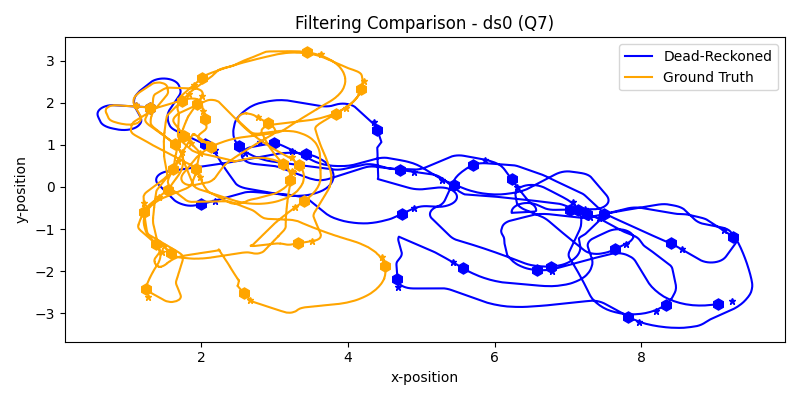
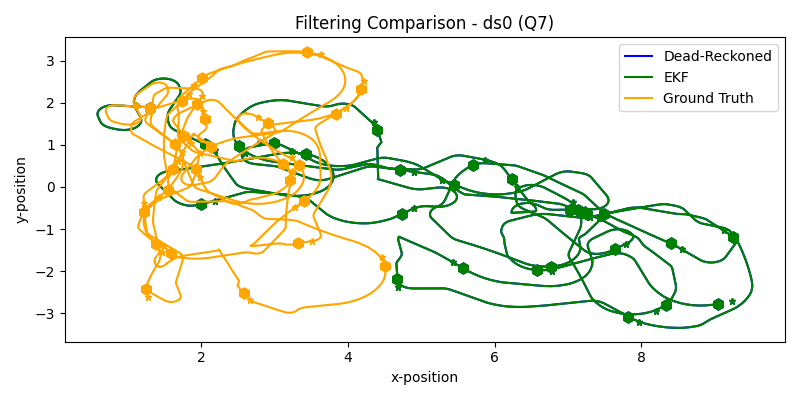
EKF alg outline

diff --git a/filters.py b/filters.py
@@ -41,7 +41,7 @@ def dead_reckon(u_traj, motion_model, x0, t0, tf, h, Q=None, tspan=None, tsync='
         else:
             h = t - prev_time  
         sim[i] = x
-        x = motion_model(x, u, t, h, Q=Q)
+        x = motion_model(x, u, t, h)
         prev_time = t
         prev_control = u
     return tspan, sim
@@ -78,25 +78,54 @@ def extended_kalman(u_traj,
     # Initialization
     if tspan is None: tspan = np.arange(start=t0, stop=tf, step=h)
     assert tspan.shape[0] == u_traj.shape[0]
-    x = x0
     sim = np.zeros((len(tspan), len(x0)))
-    prev_time = tspan[0] - h
+    prev_u_time = tspan[0] - h
     prev_control = u_traj
 
-    for (i, t), u in zip(enumerate(tspan), u_traj):
+    # Jacobian functions
+    def G(mut, ut, h):
+        return np.array([[1.0, 0.0, -ut[0]*h*np.sin(mut[2])],
+                         [0.0, 1.0,  ut[0]*h*np.cos(mut[2])],
+                         [0.0, 0.0,                   ut[1]]])
+    def H(mut, ut, h):
+        # xdiff = xt - 
+        return np.array([[]])
+
+    mut = x0
+    sim[0] = x0
+    sigt = np.diag(np.array([0.0001, 0.0001, 0.0001]))
+    z_index = 0
+    prev_z_time = tspan[0]
+    for (i, t), ut in zip(enumerate(tspan), u_traj):
         if tsync == 'const':
             # Control signals are not logged at a fixed timestep.
             # We can simulate at a fixed timestep, but send commands at proper times. In this implementation
             # the previous command is held onto, and used if it is still commanded at the current t.
-            if (not i == 0) and (prev_time + h < t):
-                u = prev_control
+            if (not i == 0) and (prev_u_time + h < t):
+                ut = prev_control
         else:
-            h = t - prev_time  
-        sim[i] = x
-        
-        x = motion_model(x, u, t, h, Q=Q)
-        prev_time = t
-        prev_control = u
+            h = t - prev_u_time  
+
+        # Make prediction
+        mut_bar = motion_model(mut, ut, t, h)   # Mean prediction
+        Gt = G(mut_bar, ut, h)                  # Motion model Jacobian
+        sigt_bar = Gt @ sigt @ Gt.T + R         # Variance prediction
+
+        # Check if a new measurement has been made
+        # if time at z_index < prev_z_time
+        #   zt = corresponding measurement
+
+            # Update prediction with measurement
+
+            # Save updated prediction into sim trajectory, record previous mut and sigt
+
+            # Update z_index, prev_z_time
+        # else
+            # Save un-updated prediction into sim array
+        sim[i] = mut_bar
+
+        prev_u_time = t
+        prev_control = ut
     return tspan, sim
 
 def unscented_kalman(u_traj,

diff --git a/run.py b/run.py
@@ -19,7 +19,7 @@ DATA_PATH = os.path.join(__file__, "../data")
 #
 # --- Models ---
 #
-def measurement_model(xt, landmarks_truth, subj, R=None):
+def measurement_model(xt, landmarks_truth, subj):
     """
     Range-bearing measurement model
 
@@ -37,12 +37,9 @@ def measurement_model(xt, landmarks_truth, subj, R=None):
 
     zt_det = np.array([mu_range, mu_bearing])   # Deterministic measurement
 
-    if R is None:
-        return zt_det, l
-    else:
-        return zt_det + np.random.multivariate_normal(np.zeros(2,), R), l    # Gaussian noise
+    return zt_det, l
 
-def motion_model(x, u, t, h, Q=None):
+def motion_model(x, u, t, h):
     """
     A motion model that leverages RK4 integration for improved integration
 
@@ -70,10 +67,8 @@ def motion_model(x, u, t, h, Q=None):
     k3 = f(x + h*k2/2.0, t + h/2.0, u)
     k4 = f(x + h*k3, t + h, u)
     x_det = x + h*(k1/6.0 + k2/3.0 + k3/3.0 + k4/6.0)   # Deterministic state
-    if Q is None:
-        return x_det
-    else:
-        return x_det + np.random.multivariate_normal(np.zeros((3,)), Q)    # Gaussian noise
+
+    return x_det
 
 #
 # --- Simulation and Plotting ---
@@ -229,7 +224,7 @@ def q7():
     # Plotting
     trajectories = [
         (x_traj_dr, 'Dead-Reckoned', True, 'blue', 0.2),
-        (x_traj_ekf, 'EKF', True, 'green', 0.2)
+        (x_traj_ekf, 'EKF', True, 'green', 0.2),
         (np.array(ground_truth.iloc[:, 1:]), 'Ground Truth', True, 'orange', 0.2)
     ]
     _ = plot_wheeled_robot(trajectories, "Filtering Comparison - ds0 (Q7)", "q7.png")
